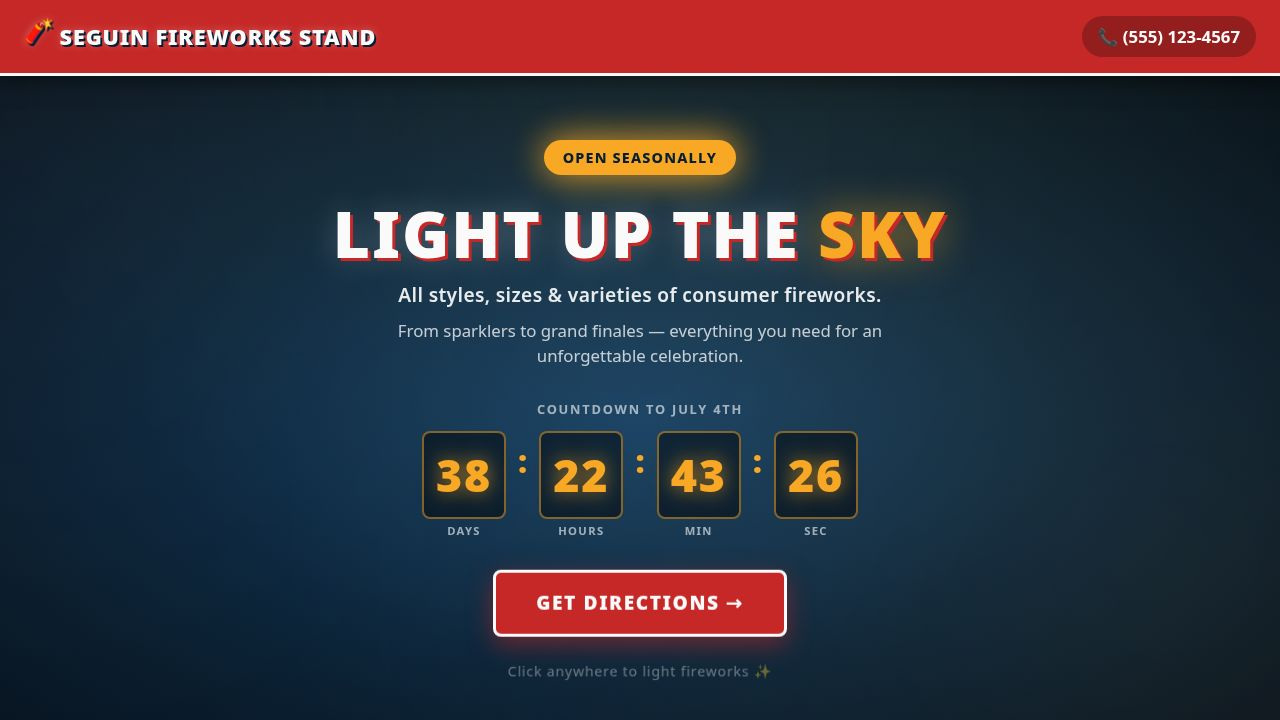
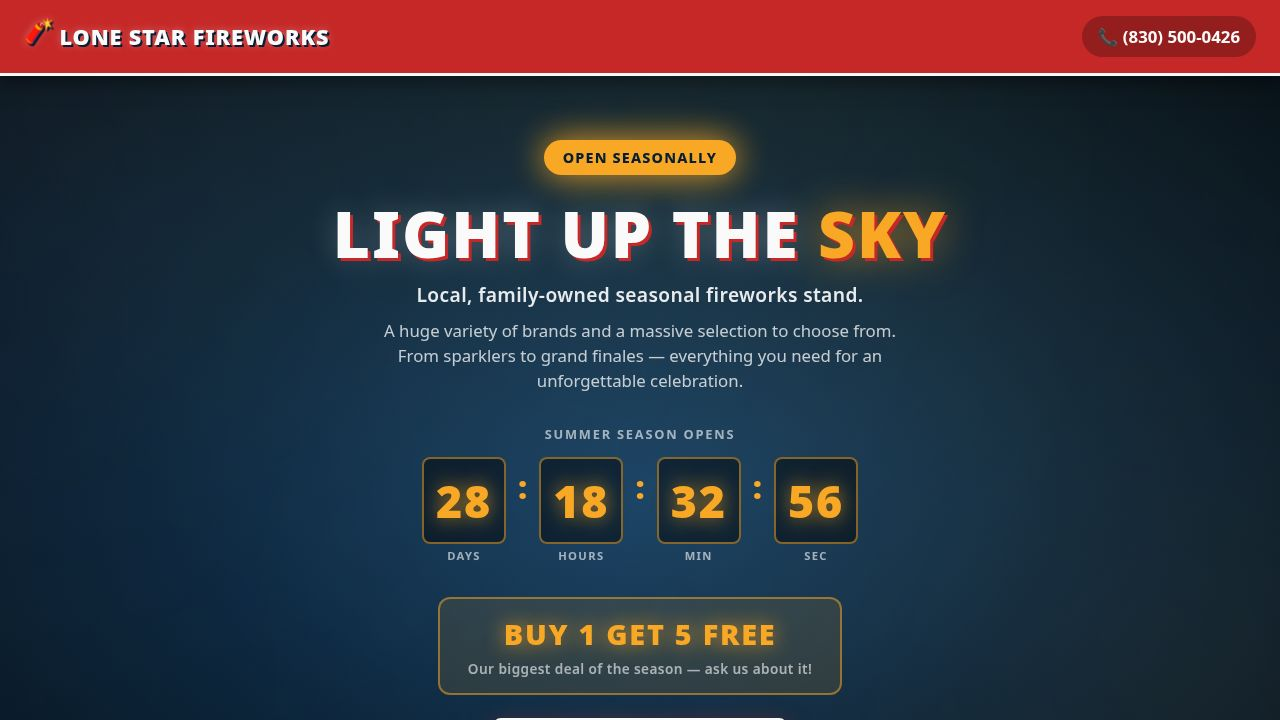
Add business details and promotional offer to the fireworks stand website
Update Hero component in Home.tsx to include business tagline, descriptive text, a "Buy 1 Get 5 Free" promotional banner with styling, and an updated address link for directions.

Replit-Commit-Author: Agent
Replit-Commit-Session-Id: 750f6b9f-3d82-4ab6-a23e-9f374d80b2e5
Replit-Commit-Checkpoint-Type: full_checkpoint
Replit-Commit-Event-Id: 32039573-9df5-4ee2-ab1b-648a1a8fb1b2
Replit-Commit-Screenshot-Url: https://storage.googleapis.com/screenshot-production-us-central1/4827ca42-b1bf-4dee-84f6-dd0648e49648/750f6b9f-3d82-4ab6-a23e-9f374d80b2e5/4OPx3wL
Replit-Helium-Checkpoint-Created: true

diff --git a/artifacts/fireworks-stand/src/pages/Home.tsx b/artifacts/fireworks-stand/src/pages/Home.tsx
@@ -161,26 +161,71 @@ function Hero() {
             letterSpacing: "0.02em",
           }}
         >
-          All styles, sizes &amp; varieties of consumer fireworks.
+          Local, family-owned seasonal fireworks stand.
         </p>
         <p
           style={{
             fontSize: "1.05rem",
             color: "rgba(255,255,255,0.75)",
             marginBottom: "2rem",
-            maxWidth: 500,
+            maxWidth: 540,
             marginLeft: "auto",
             marginRight: "auto",
           }}
         >
-          From sparklers to grand finales — everything you need for an unforgettable celebration.
+          A huge variety of brands and a massive selection to choose from. From sparklers to grand finales — everything you need for an unforgettable celebration.
         </p>
 
         <Countdown />
 
-        <div className="float-cta" style={{ display: "inline-block", pointerEvents: "all" }}>
-          <a
-            href="https://maps.google.com/?q=1234+Firecracker+Lane+Seguin+TX+78155"
+        <div
+          style={{
+            display: "flex",
+            flexDirection: "column",
+            alignItems: "center",
+            gap: "1.5rem",
+            marginBottom: "1.5rem",
+            pointerEvents: "all",
+          }}
+        >
+          <div
+            style={{
+              background: "rgba(249,168,37,0.12)",
+              border: "2px solid rgba(249,168,37,0.5)",
+              borderRadius: "0.75rem",
+              padding: "0.85rem 1.75rem",
+              display: "inline-block",
+            }}
+          >
+            <span
+              style={{
+                fontSize: "clamp(1.3rem, 3.5vw, 1.8rem)",
+                fontWeight: 900,
+                textTransform: "uppercase",
+                letterSpacing: "0.06em",
+                color: GOLD,
+                textShadow: "0 0 20px rgba(249,168,37,0.8)",
+                display: "block",
+              }}
+            >
+              Buy 1 Get 5 Free
+            </span>
+            <p
+              style={{
+                color: "rgba(255,255,255,0.6)",
+                fontSize: "0.85rem",
+                fontWeight: 600,
+                marginTop: "0.25rem",
+                letterSpacing: "0.03em",
+              }}
+            >
+              Our biggest deal of the season — ask us about it!
+            </p>
+          </div>
+
+          <div className="float-cta">
+            <a
+            href="https://maps.google.com/?q=11614+N+State+Hwy+123+San+Marcos+TX+78666"
             target="_blank"
             rel="noopener noreferrer"
             style={{
@@ -215,6 +260,7 @@ function Hero() {
             Get Directions →
           </a>
         </div>
+      </div>
 
         <p
           className="sparkle-hint"
